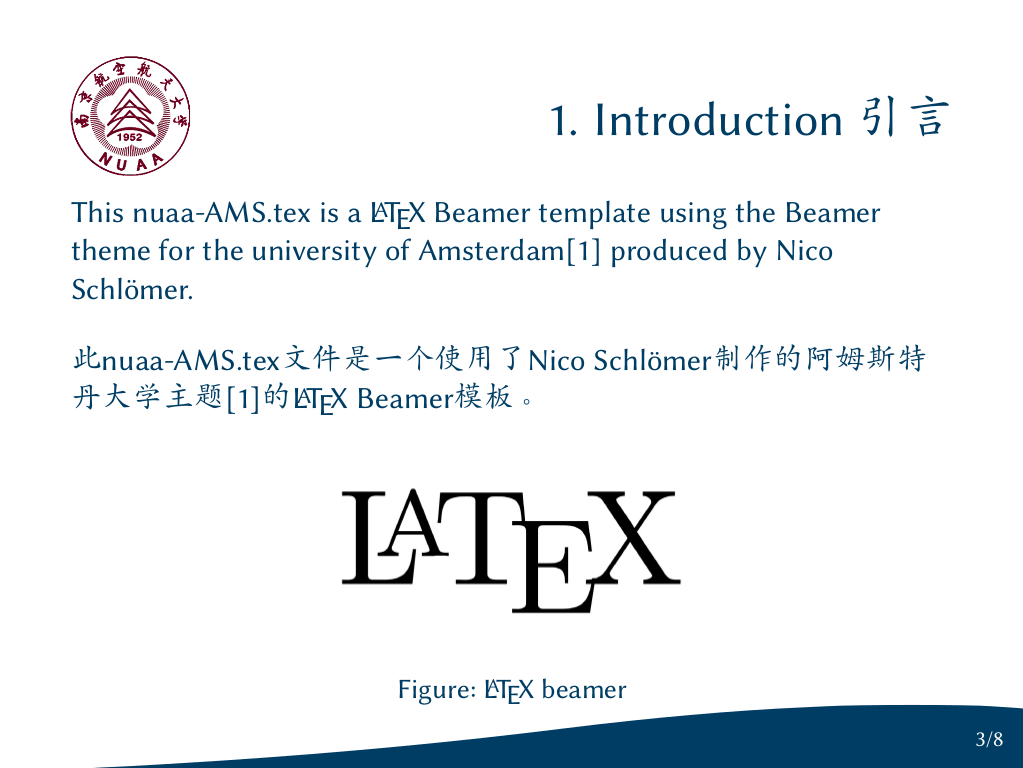
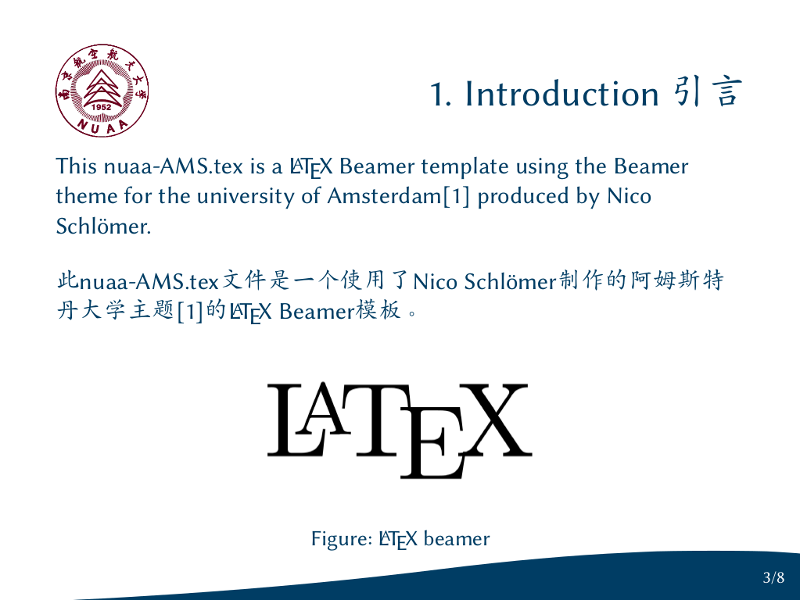
preview images updated.

diff --git a/README.md b/README.md
@@ -1,8 +1,8 @@
-# Slide templates for NUAA () 南京航空航天大学
-Slide templates for NUAA (including LaTeX Beamer &amp; PowerPoint formats)
+# Slide templates for NUAA (Unofficial) 南京航空航天大学幻灯片模板(非官方)
 
 ## 1. nuaa-JUB
 A modern theme with blue and orange colour. [Sample pdf](https://github.com/nuaa803/nuaa-slides/raw/master/nuaa-JUB/nuaa-JUB.pdf)
+
 nuaa-JUB是一个以深蓝和橘黄为色调的现代风格的beamer主题。
 
 ![preview 1](https://github.com/nuaa803/nuaa-slides/blob/master/preview/nuaa-JUB-1.png)
@@ -11,6 +11,7 @@ nuaa-JUB是一个以深蓝和橘黄为色调的现代风格的beamer主题。
 
 ## 2. nuaa-AMS
 A simple theme with blue and dark red colour, with two versions(light and dark). [Sample pdf](https://github.com/nuaa803/nuaa-slides/raw/master/nuaa-AMS/nuaa-AMS.pdf)
+
 nuaa-AMS是一个以深蓝和玫红为色调的简约风格的beamer主题，包含浅色调和深色调两个版本。
 
 ![preview 1](https://github.com/nuaa803/nuaa-slides/blob/master/preview/nuaa-AMS-light-1.png)
